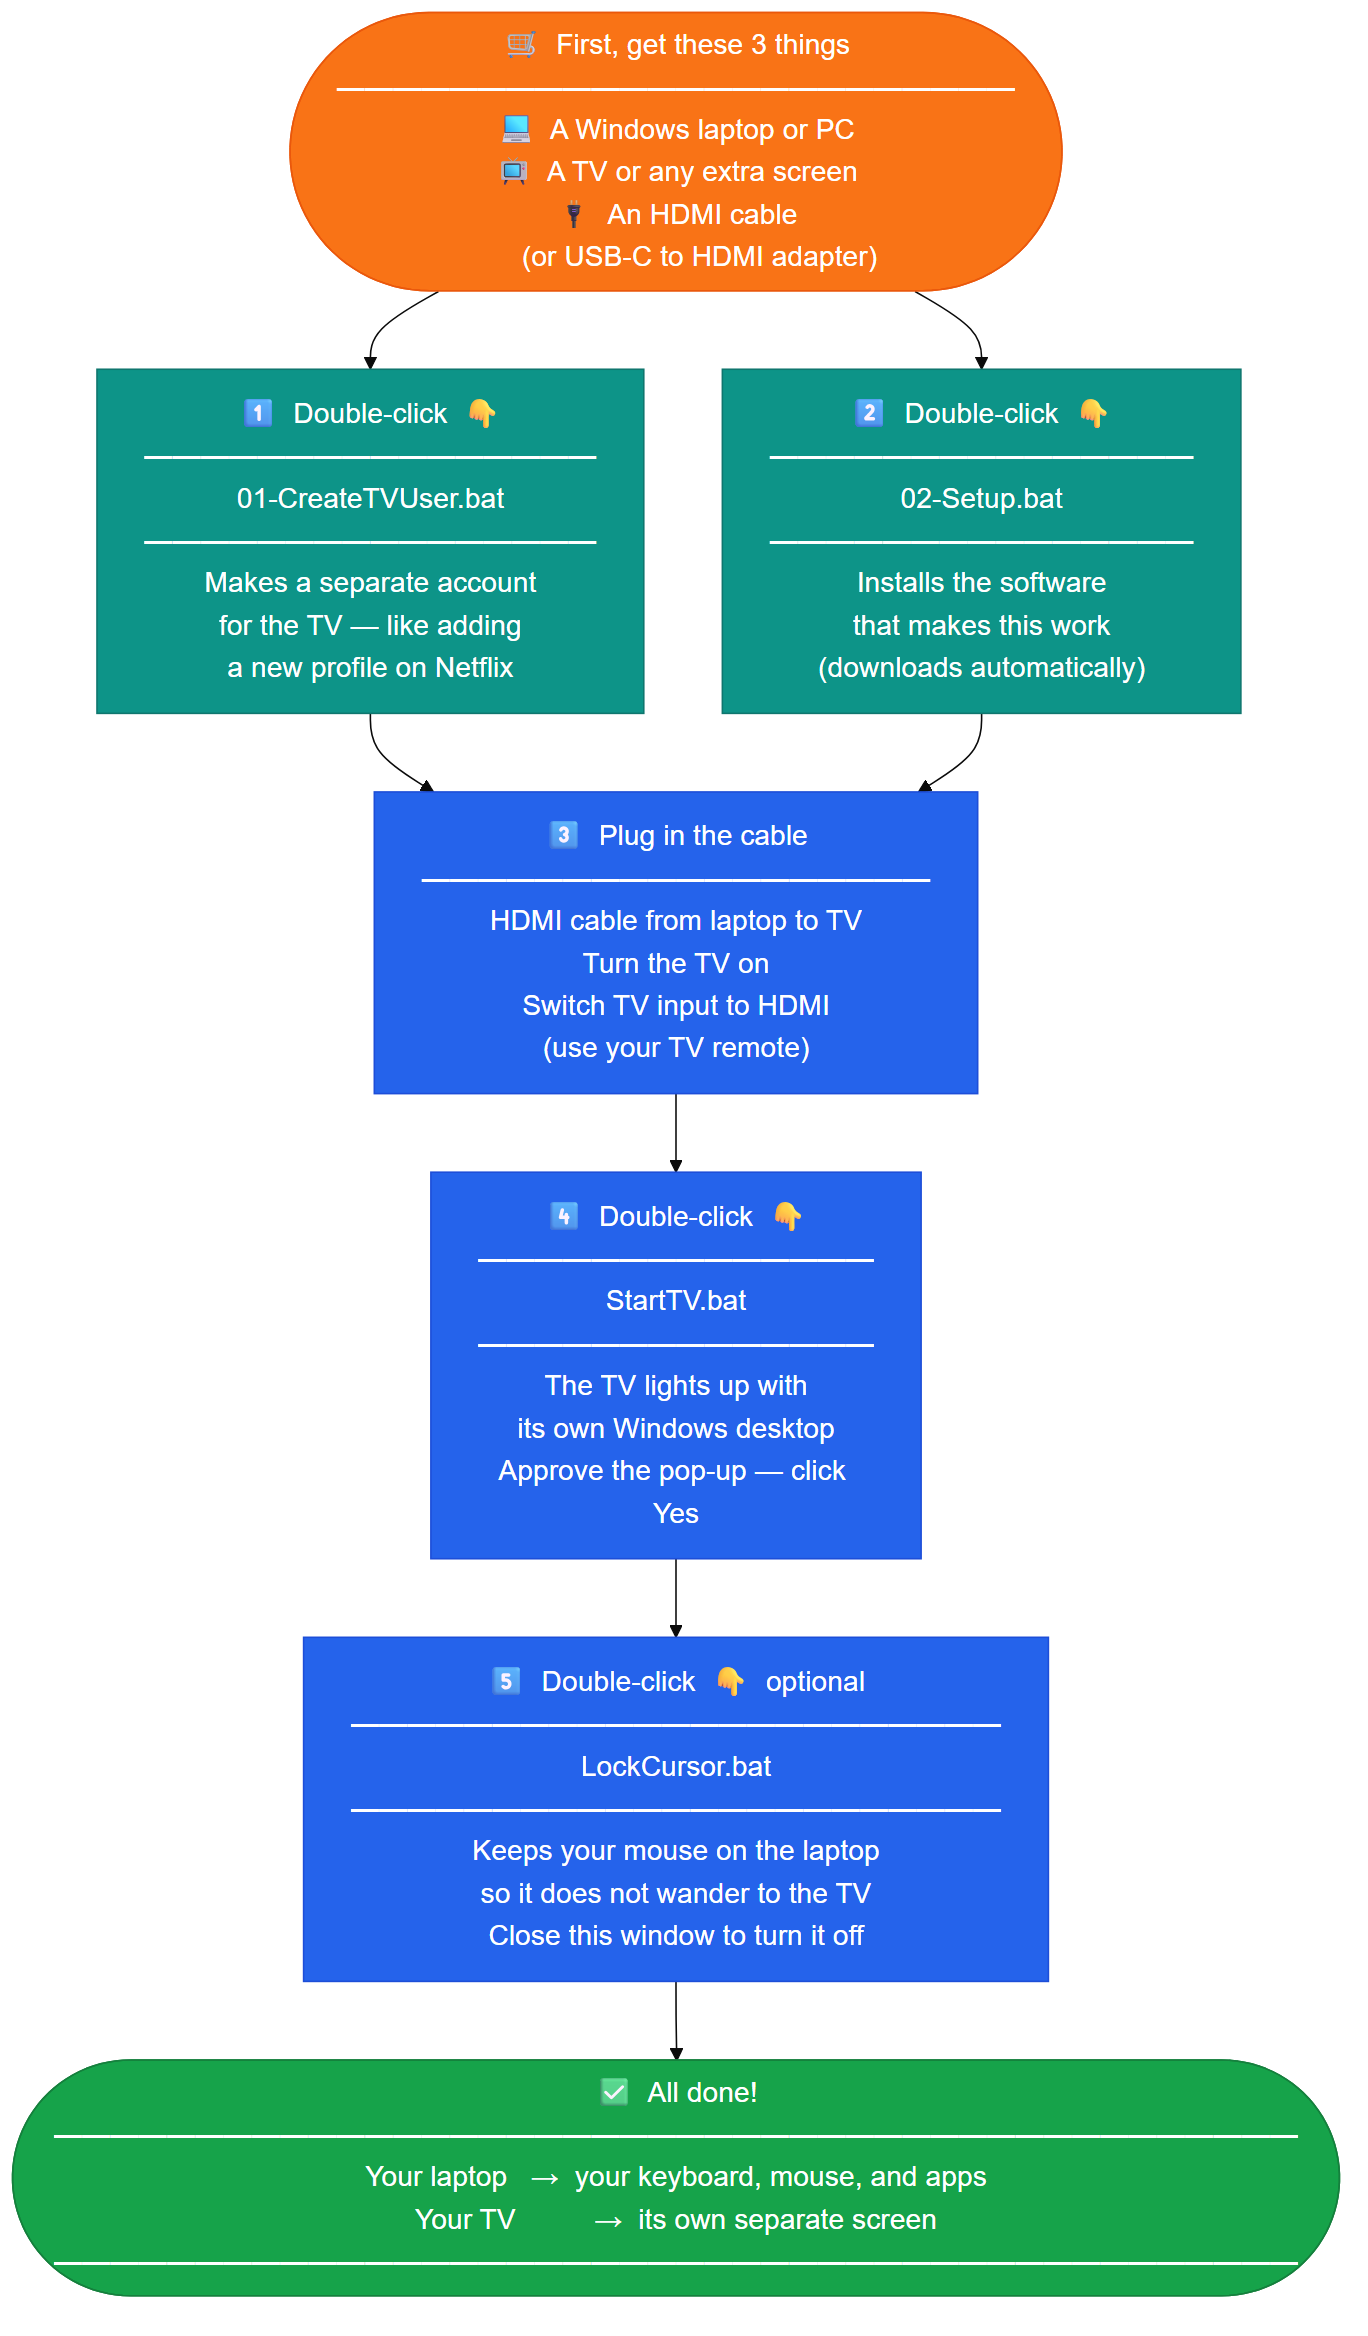
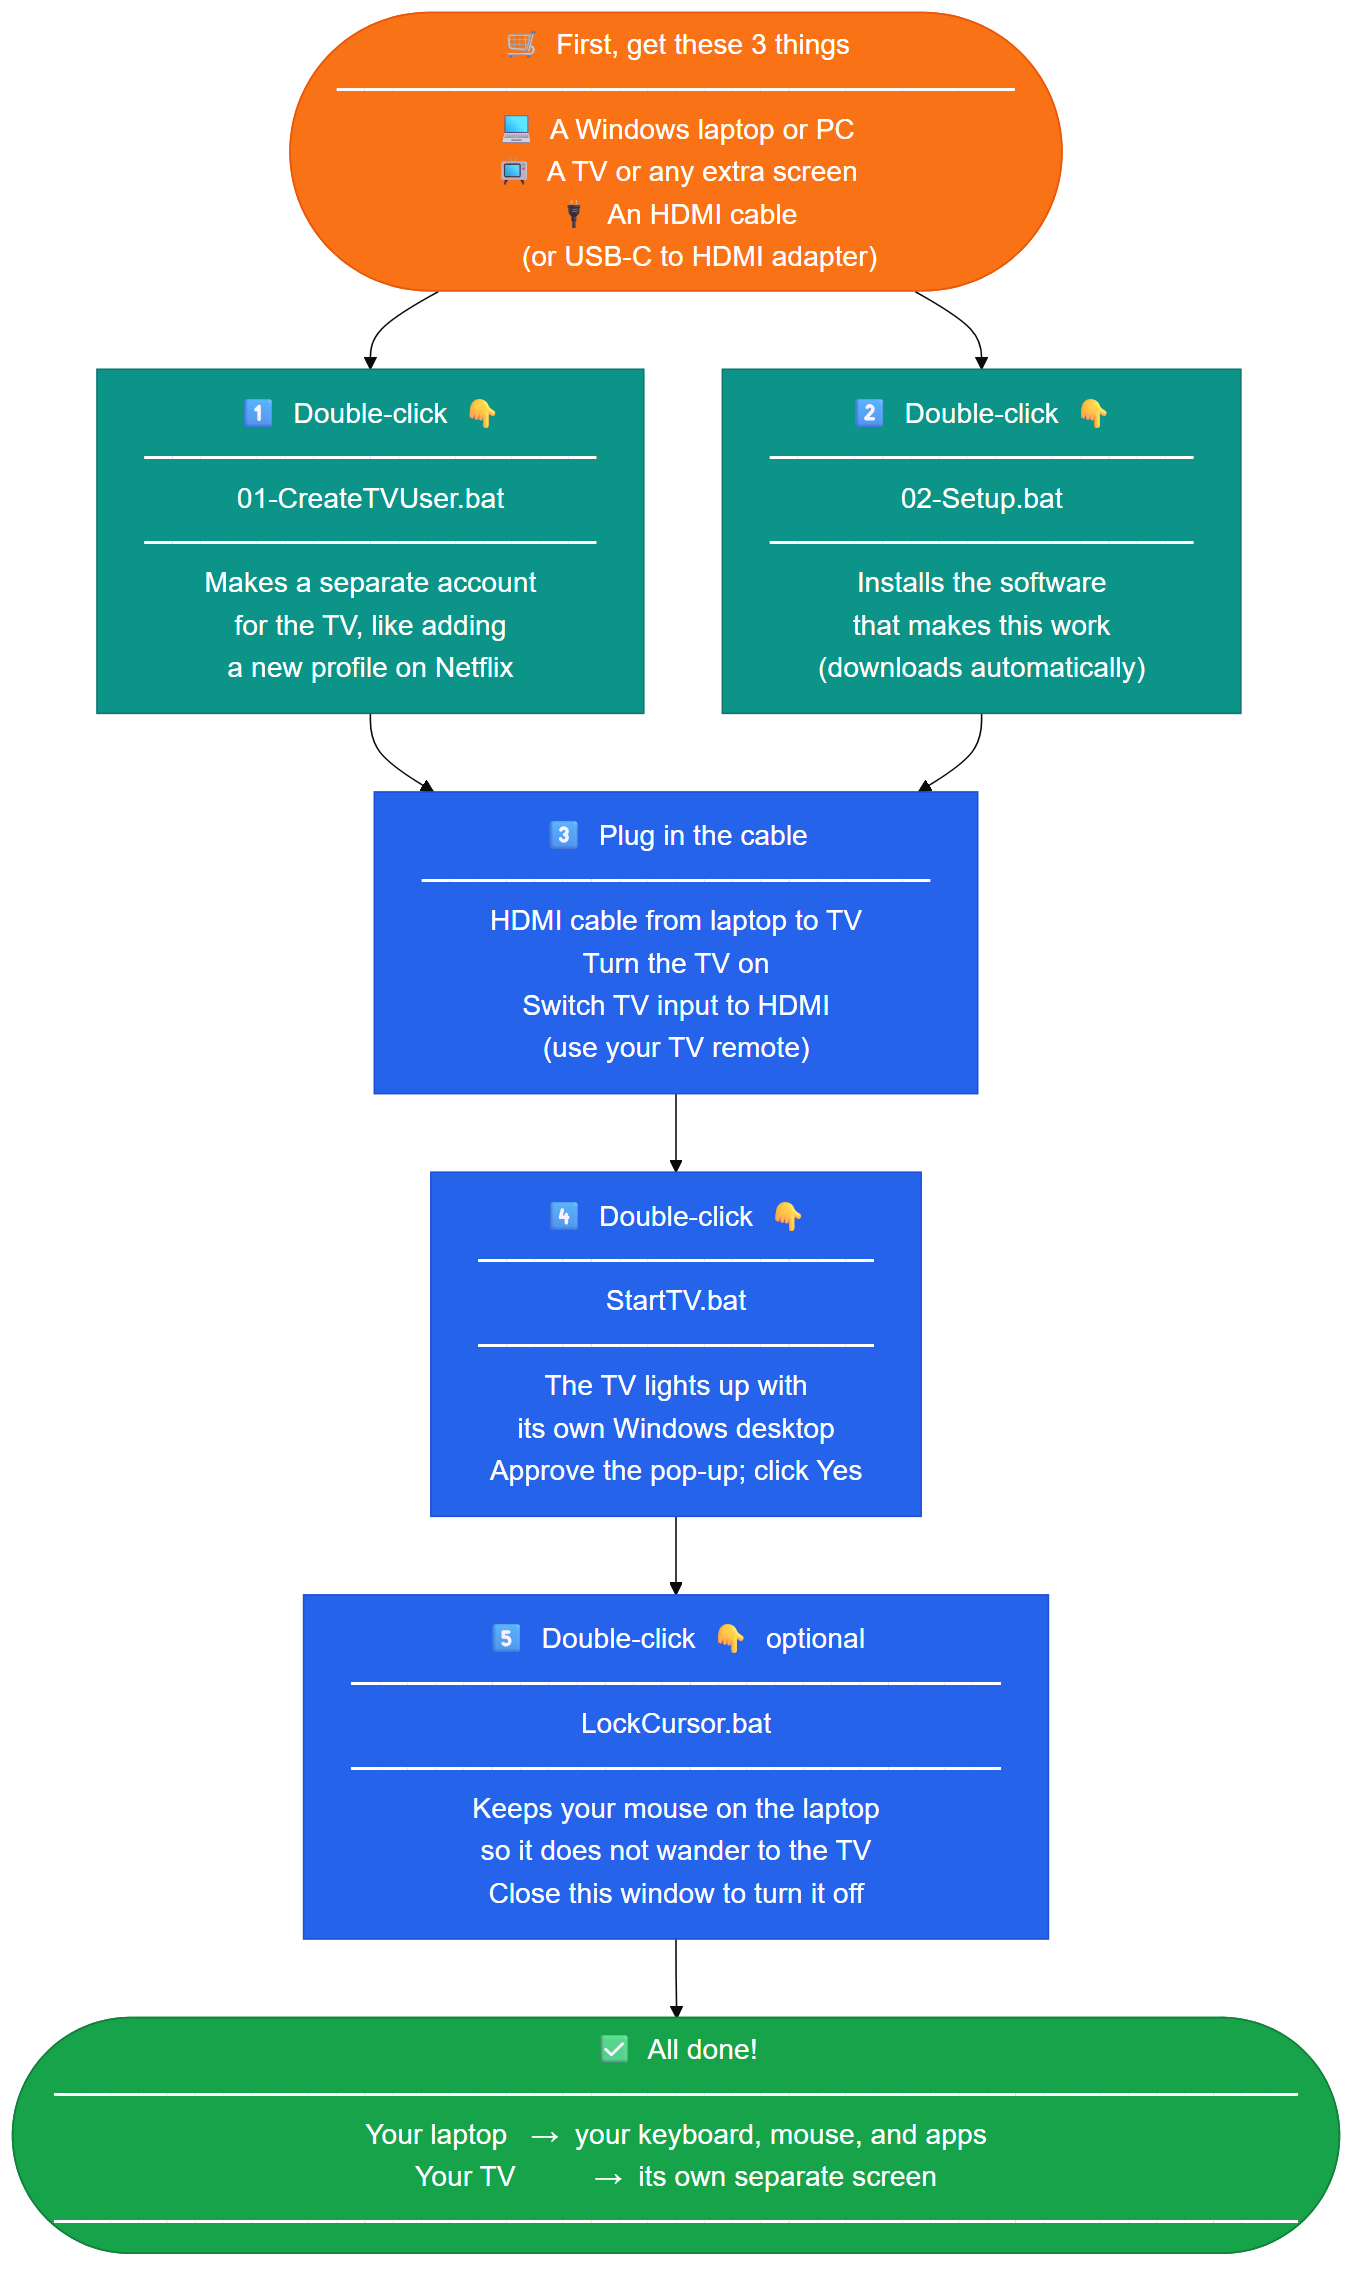
Remove all em dashes — replace with correct punctuation throughout

Changed region(s): [[0.0307, 0.1238, 0.9518, 0.9904], [0.3684, 0.0, 0.6447, 0.1238]]

diff --git a/README.md b/README.md
@@ -1,7 +1,7 @@
 # Turn Your TV Into a Second Screen
-### Run bots, automations, and research on your TV — while you work on your laptop
+### Run bots, automations, and research on your TV, while you work on your laptop
 
-Use your TV as a second screen for your Windows laptop — with its own separate desktop, running independently.
+Use your TV as a second screen for your Windows laptop, with its own separate desktop, running independently.
 
 > **Watch the setup walkthrough:** *(screen recording coming soon)*
 
@@ -10,7 +10,7 @@ Use your TV as a second screen for your Windows laptop — with its own separate
 ## What does this do?
 
 You plug a cable from your laptop to the TV.
-Your TV becomes a **second screen** — with its own taskbar, its own apps, its own desktop.
+Your TV becomes a **second screen**, with its own taskbar, its own apps, its own desktop.
 Your laptop stays exactly as it is. You work on your laptop normally.
 Your mouse stays on the laptop. The TV runs on its own.
 
@@ -24,9 +24,9 @@ That's it.
 |---|---|
 | A Windows laptop or PC | Any Windows laptop from the last 10 years |
 | A TV, monitor, or projector | Anything with an HDMI port on the back |
-| A cable | HDMI cable — or a USB-C to HDMI adapter if your laptop has no HDMI port |
+| A cable | HDMI cable, or a USB-C to HDMI adapter if your laptop has no HDMI port |
 
-> **Not sure which cable?** Look at the side of your laptop. If you see a port that looks like a wide flat rectangle — that's HDMI, use an HDMI cable. If you only see small oval ports — those are USB-C, get a "USB-C to HDMI adapter" (under ₹500 / $6 on Amazon).
+> **Not sure which cable?** Look at the side of your laptop. If you see a port that looks like a wide flat rectangle: that's HDMI, use an HDMI cable. If you only see small oval ports: those are USB-C, get a "USB-C to HDMI adapter" (under ₹500 / $6 on Amazon).
 
 ---
 
@@ -38,7 +38,7 @@ That's it.
 
 ## Something not working?
 
-Double-click **CheckStatus.bat** — it checks everything and shows you exactly what is wrong in plain English.
+Double-click **CheckStatus.bat**; it checks everything and shows you exactly what is wrong in plain English.
 
 For step-by-step fixes, see [TROUBLESHOOT.md](TROUBLESHOOT.md).
 
@@ -50,7 +50,7 @@ For step-by-step fixes, see [TROUBLESHOOT.md](TROUBLESHOOT.md).
 |---|---|---|
 | `01-CreateTVUser.bat` | Once | Creates a separate TV account on your computer |
 | `02-Setup.bat` | Once | Downloads and installs the software that makes this work |
-| `CheckStatus.bat` | Any time | Checks everything — shows green tick or red cross for each thing |
+| `CheckStatus.bat` | Any time | Checks everything; shows green tick or red cross for each thing |
 | `StartTV.bat` | Every time | Turns the TV on as a second screen and opens a Windows desktop on it |
 | `LockCursor.bat` | Optional | Keeps your mouse on the laptop. Close the window to turn it off. |
 
@@ -58,14 +58,14 @@ For step-by-step fixes, see [TROUBLESHOOT.md](TROUBLESHOOT.md).
 
 ## What can you run on the TV?
 
-Think of it this way: your laptop is where you type and click. Your TV is where the boring-but-important work happens on its own — no babysitting needed.
+Think of it this way: your laptop is where you type and click. Your TV is where the boring-but-important work happens on its own; no babysitting needed.
 
 | What to run on the TV | What you do on your laptop at the same time |
 |---|---|
-| **Power Automate Desktop bot** — fills forms, clicks through websites, copies data from one place to another, all automatically | Work on something else, watch it run, step in only if it asks |
-| **Research browser** — a second Chrome window open with tabs for a topic you're reading about | Write notes or a doc on your laptop, glance at the TV for reference |
-| **Website scraper** — a script that visits hundreds of pages and pulls out prices, contacts, or data into a spreadsheet | Laptop is free for anything else |
-| **n8n automation** — runs a workflow that checks email, updates a sheet, sends a WhatsApp message, all on a loop | Your laptop stays clean — n8n runs quietly on the TV |
+| **Power Automate Desktop bot**: fills forms, clicks through websites, copies data from one place to another, all automatically | Work on something else, watch it run, step in only if it asks |
+| **Research browser**: a second Chrome window open with tabs for a topic you're reading about | Write notes or a doc on your laptop, glance at the TV for reference |
+| **Website scraper**: a script that visits hundreds of pages and pulls out prices, contacts, or data into a spreadsheet | Laptop is free for anything else |
+| **n8n automation**: runs a workflow that checks email, updates a sheet, sends a WhatsApp message, all on a loop | Your laptop stays clean; n8n runs quietly on the TV |
 
 The TV runs its own full Windows desktop. Anything you can do on a PC, you can set running on the TV and forget about it.
 
@@ -83,10 +83,10 @@ No. If you ever want to undo everything, run `02-Setup.bat` and it has an uninst
 Yes. Works on Windows 10 and 11, Home and Pro.
 
 **My TV says "can't connect" or shows an error.**
-See [TROUBLESHOOT.md](TROUBLESHOOT.md) — it lists every common error in plain English.
+See [TROUBLESHOOT.md](TROUBLESHOOT.md); it lists every common error in plain English.
 
 **After a Windows update, it stopped working.**
-Run `StartTV.bat` again. It fixes itself automatically. If it says "try again tomorrow", just wait a day and run it again — it will work.
+Run `StartTV.bat` again. It fixes itself automatically. If it says "try again tomorrow", just wait a day and run it again; it will work.
 
 **Can I use a normal monitor instead of a TV?**
 Yes. Any screen with an HDMI port works.
@@ -95,10 +95,10 @@ Yes. Any screen with an HDMI port works.
 
 ## How it works (for the curious)
 
-Windows normally does not allow you to open a second desktop session on the same PC. This tool installs a small patch called **RDP Wrapper** that unlocks this. The TV connects to your laptop over a private internal cable (not the internet). Every time you run `StartTV.bat`, it also checks if Windows has updated and downloads any fixes automatically — so it stays working without you doing anything.
+Windows normally does not allow you to open a second desktop session on the same PC. This tool installs a small patch called **RDP Wrapper** that unlocks this. The TV connects to your laptop over a private internal cable (not the internet). Every time you run `StartTV.bat`, it also checks if Windows has updated and downloads any fixes automatically, so it stays working without you doing anything.
 
 ---
 
 ## License
 
-[MIT](LICENSE) — free to use, share, and modify.
+[MIT](LICENSE): free to use, share, and modify.

diff --git a/TROUBLESHOOT.md b/TROUBLESHOOT.md
@@ -1,6 +1,6 @@
 # Troubleshooting Guide
 
-Common problems and how to fix them — no technical knowledge needed.
+Common problems and how to fix them; no technical knowledge needed.
 
 ---
 
@@ -50,7 +50,7 @@ Common problems and how to fix them — no technical knowledge needed.
 
 **C) RDP Wrapper isn't working for your Windows build**
 - Open `C:\Program Files\RDP Wrapper\` and run `RDPConf.exe`
-- Look at the status next to "Wrapper state" — it should say "Fully supported"
+- Look at the status next to "Wrapper state"; it should say "Fully supported"
 - If it says "Not supported", run `02-Setup.bat` again or wait 24 hours for the community patch
 
 ---
@@ -74,7 +74,7 @@ Common problems and how to fix them — no technical knowledge needed.
 3. Right-click the zip → **Extract All**
 4. Inside the extracted folder, right-click `RDPWInst.exe` → **Run as administrator**
 5. Click Yes when Windows asks for permission
-6. Run `02-Setup.bat` again — it will verify the installation and download the INI
+6. Run `02-Setup.bat` again; it will verify the installation and download the INI
 
 ---
 
@@ -82,14 +82,14 @@ Common problems and how to fix them — no technical knowledge needed.
 
 **What's happening:** You recently installed a Windows Update, and the RDP Wrapper community hasn't released an update for your exact Windows build yet.
 
-**Fix:** Wait 12–48 hours and run `StartTV.bat` again. The script automatically checks for the patch — you don't need to do anything else.
+**Fix:** Wait 12–48 hours and run `StartTV.bat` again. The script automatically checks for the patch; you don't need to do anything else.
 
 ---
 
 ## Mouse cursor escaped to the TV screen
 
 **Fix:**
-- Run `LockCursor.bat` — it instantly locks the mouse back to the laptop
+- Run `LockCursor.bat`; it instantly locks the mouse back to the laptop
 - Keep the `LockCursor` window open as long as you want the lock active
 - Close that window to freely move the mouse between screens again
 
@@ -108,9 +108,9 @@ Common problems and how to fix them — no technical knowledge needed.
 
 ## After a Windows Update, everything stopped working
 
-**Fix — in order:**
+**Fix, in order:**
 1. Restart your PC first (if not already done after the update)
-2. Run `StartTV.bat` — it auto-patches RDP Wrapper
+2. Run `StartTV.bat`; it auto-patches RDP Wrapper
 3. If it says "not patched yet", wait 24 hours and try again
 4. If you wait 48+ hours and it still doesn't work, run `02-Setup.bat` to force a fresh INI download
 

diff --git a/FILES.md b/FILES.md
@@ -22,5 +22,5 @@
 2. **First time only:** Run `02-Setup.bat` (installs RDP Wrapper)
 3. **Optional check:** Run `CheckStatus.bat` to verify everything is ready
 4. Plug in HDMI cable, turn TV on
-5. Run `StartTV.bat` (approve UAC) — TV session launches
+5. Run `StartTV.bat` (approve UAC); TV session launches
 6. Run `LockCursor.bat` to lock the mouse to the laptop screen